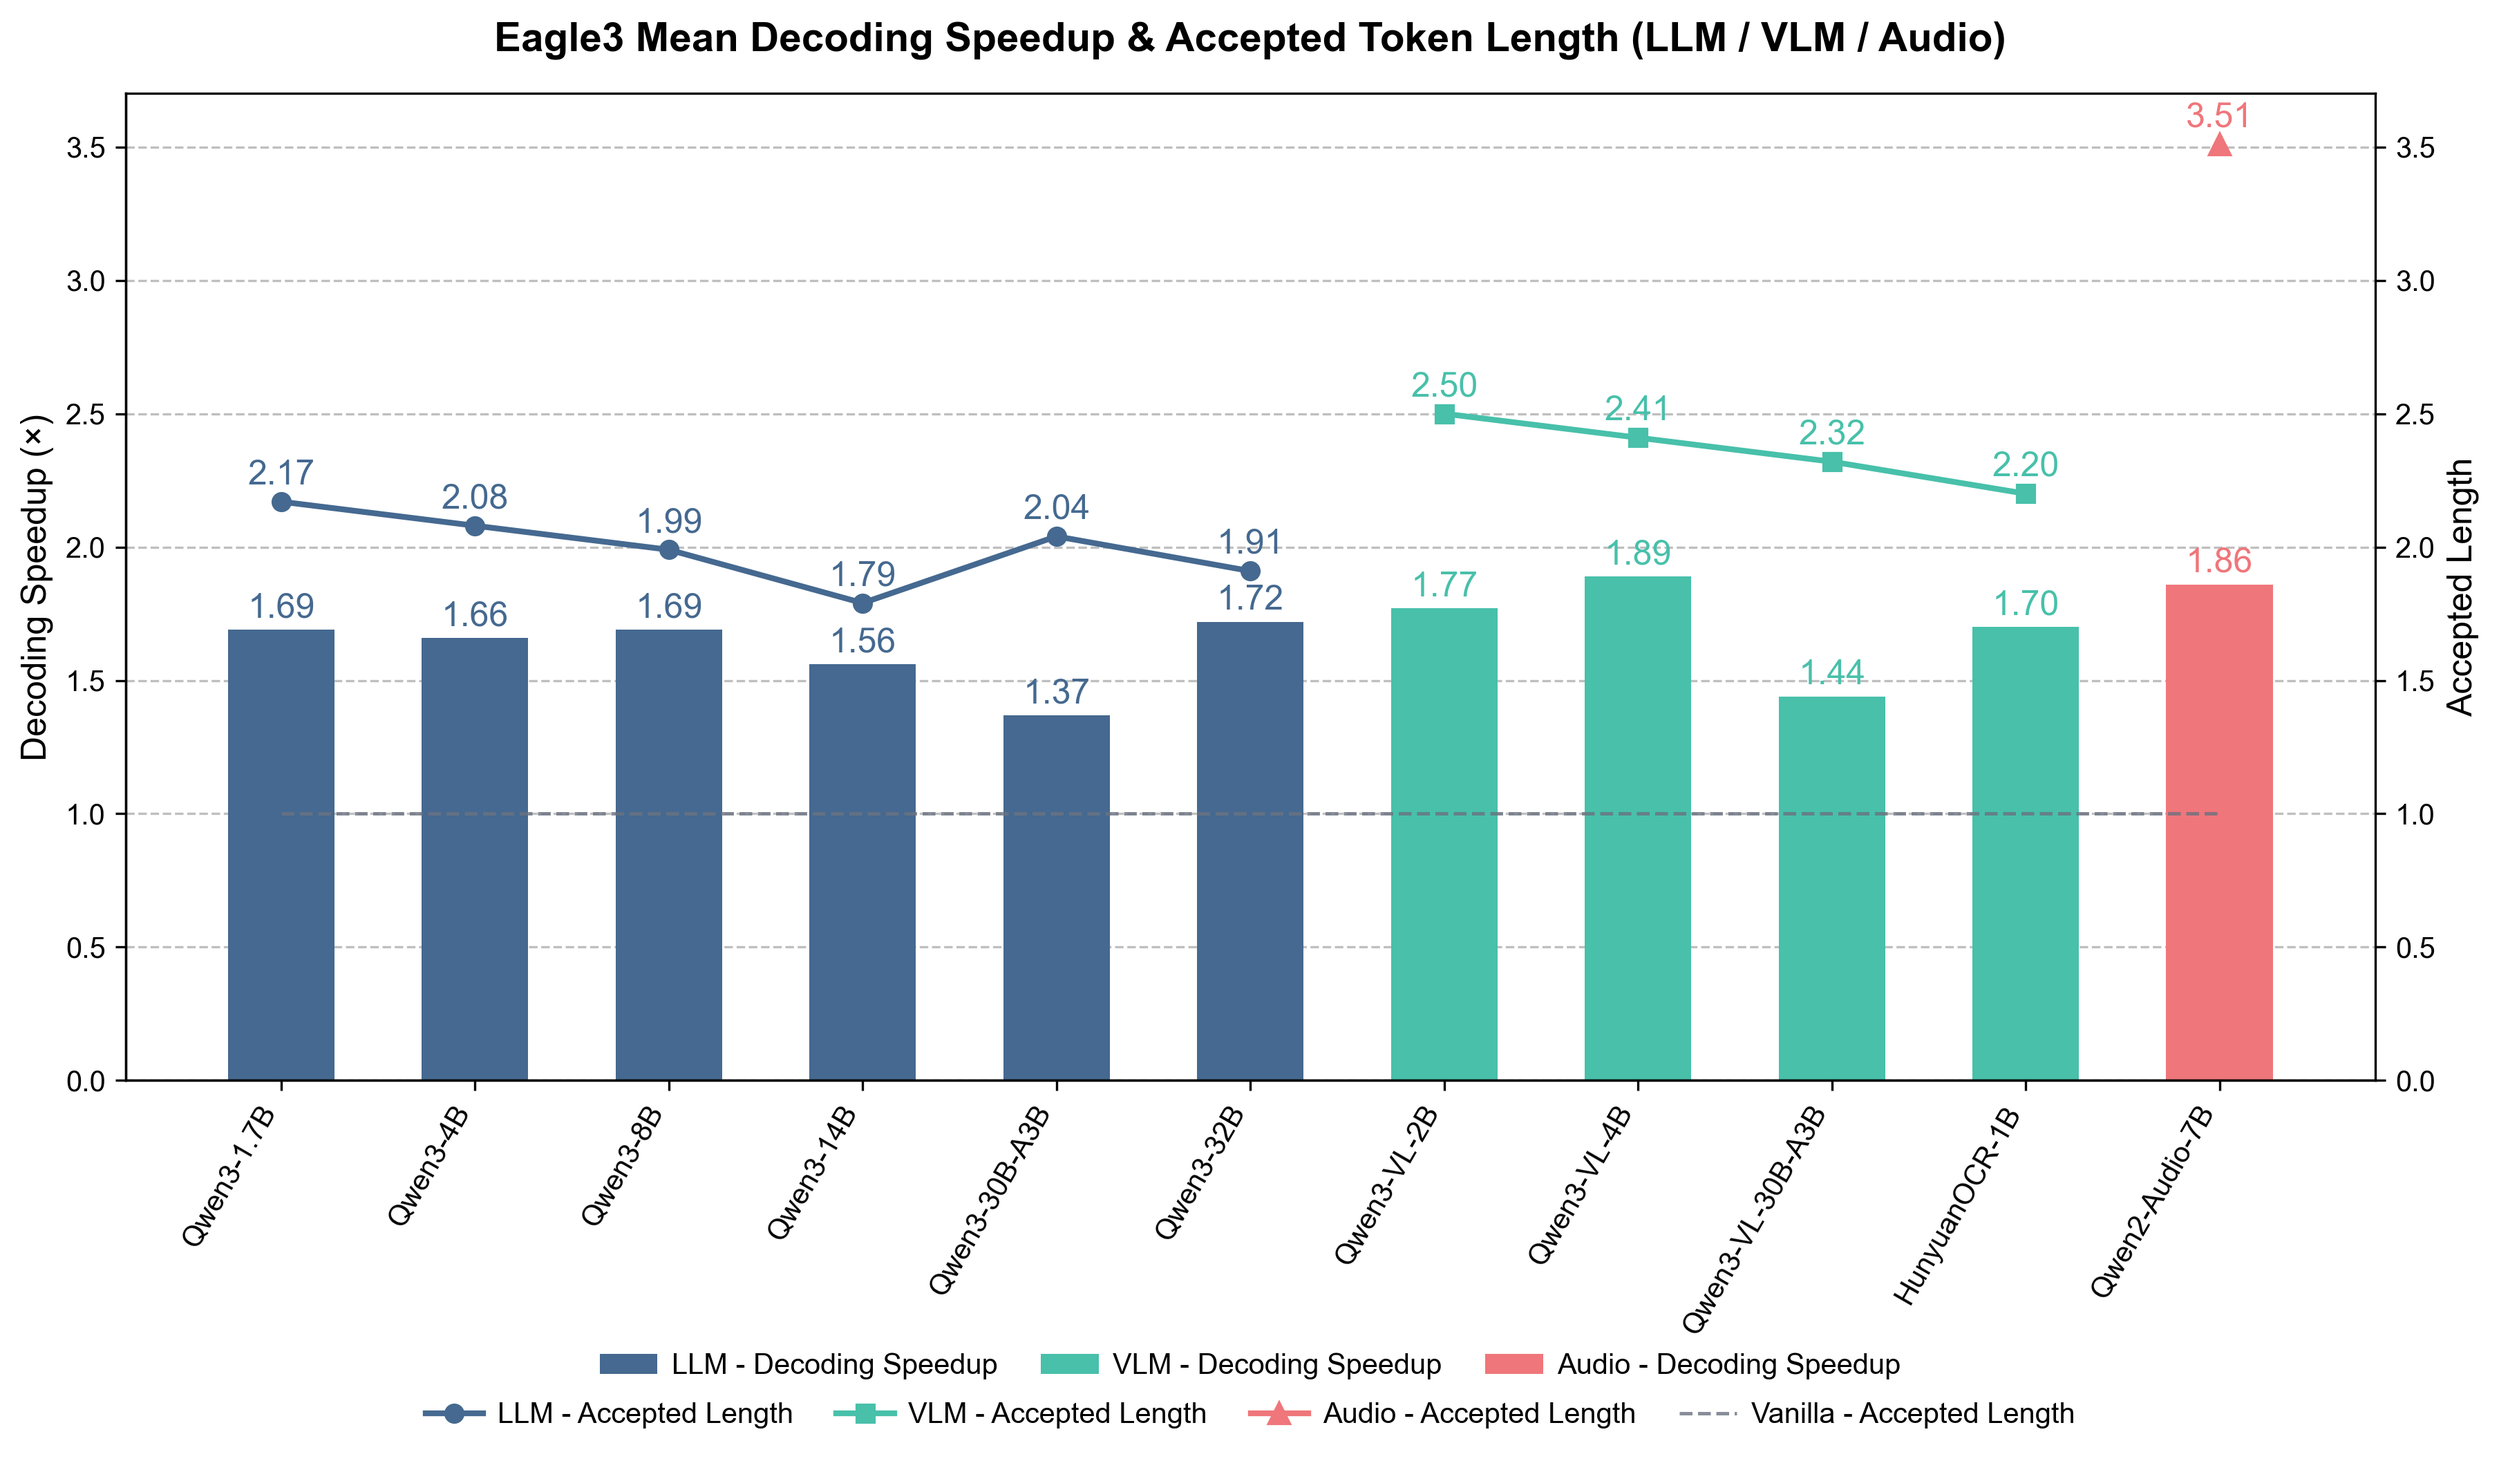
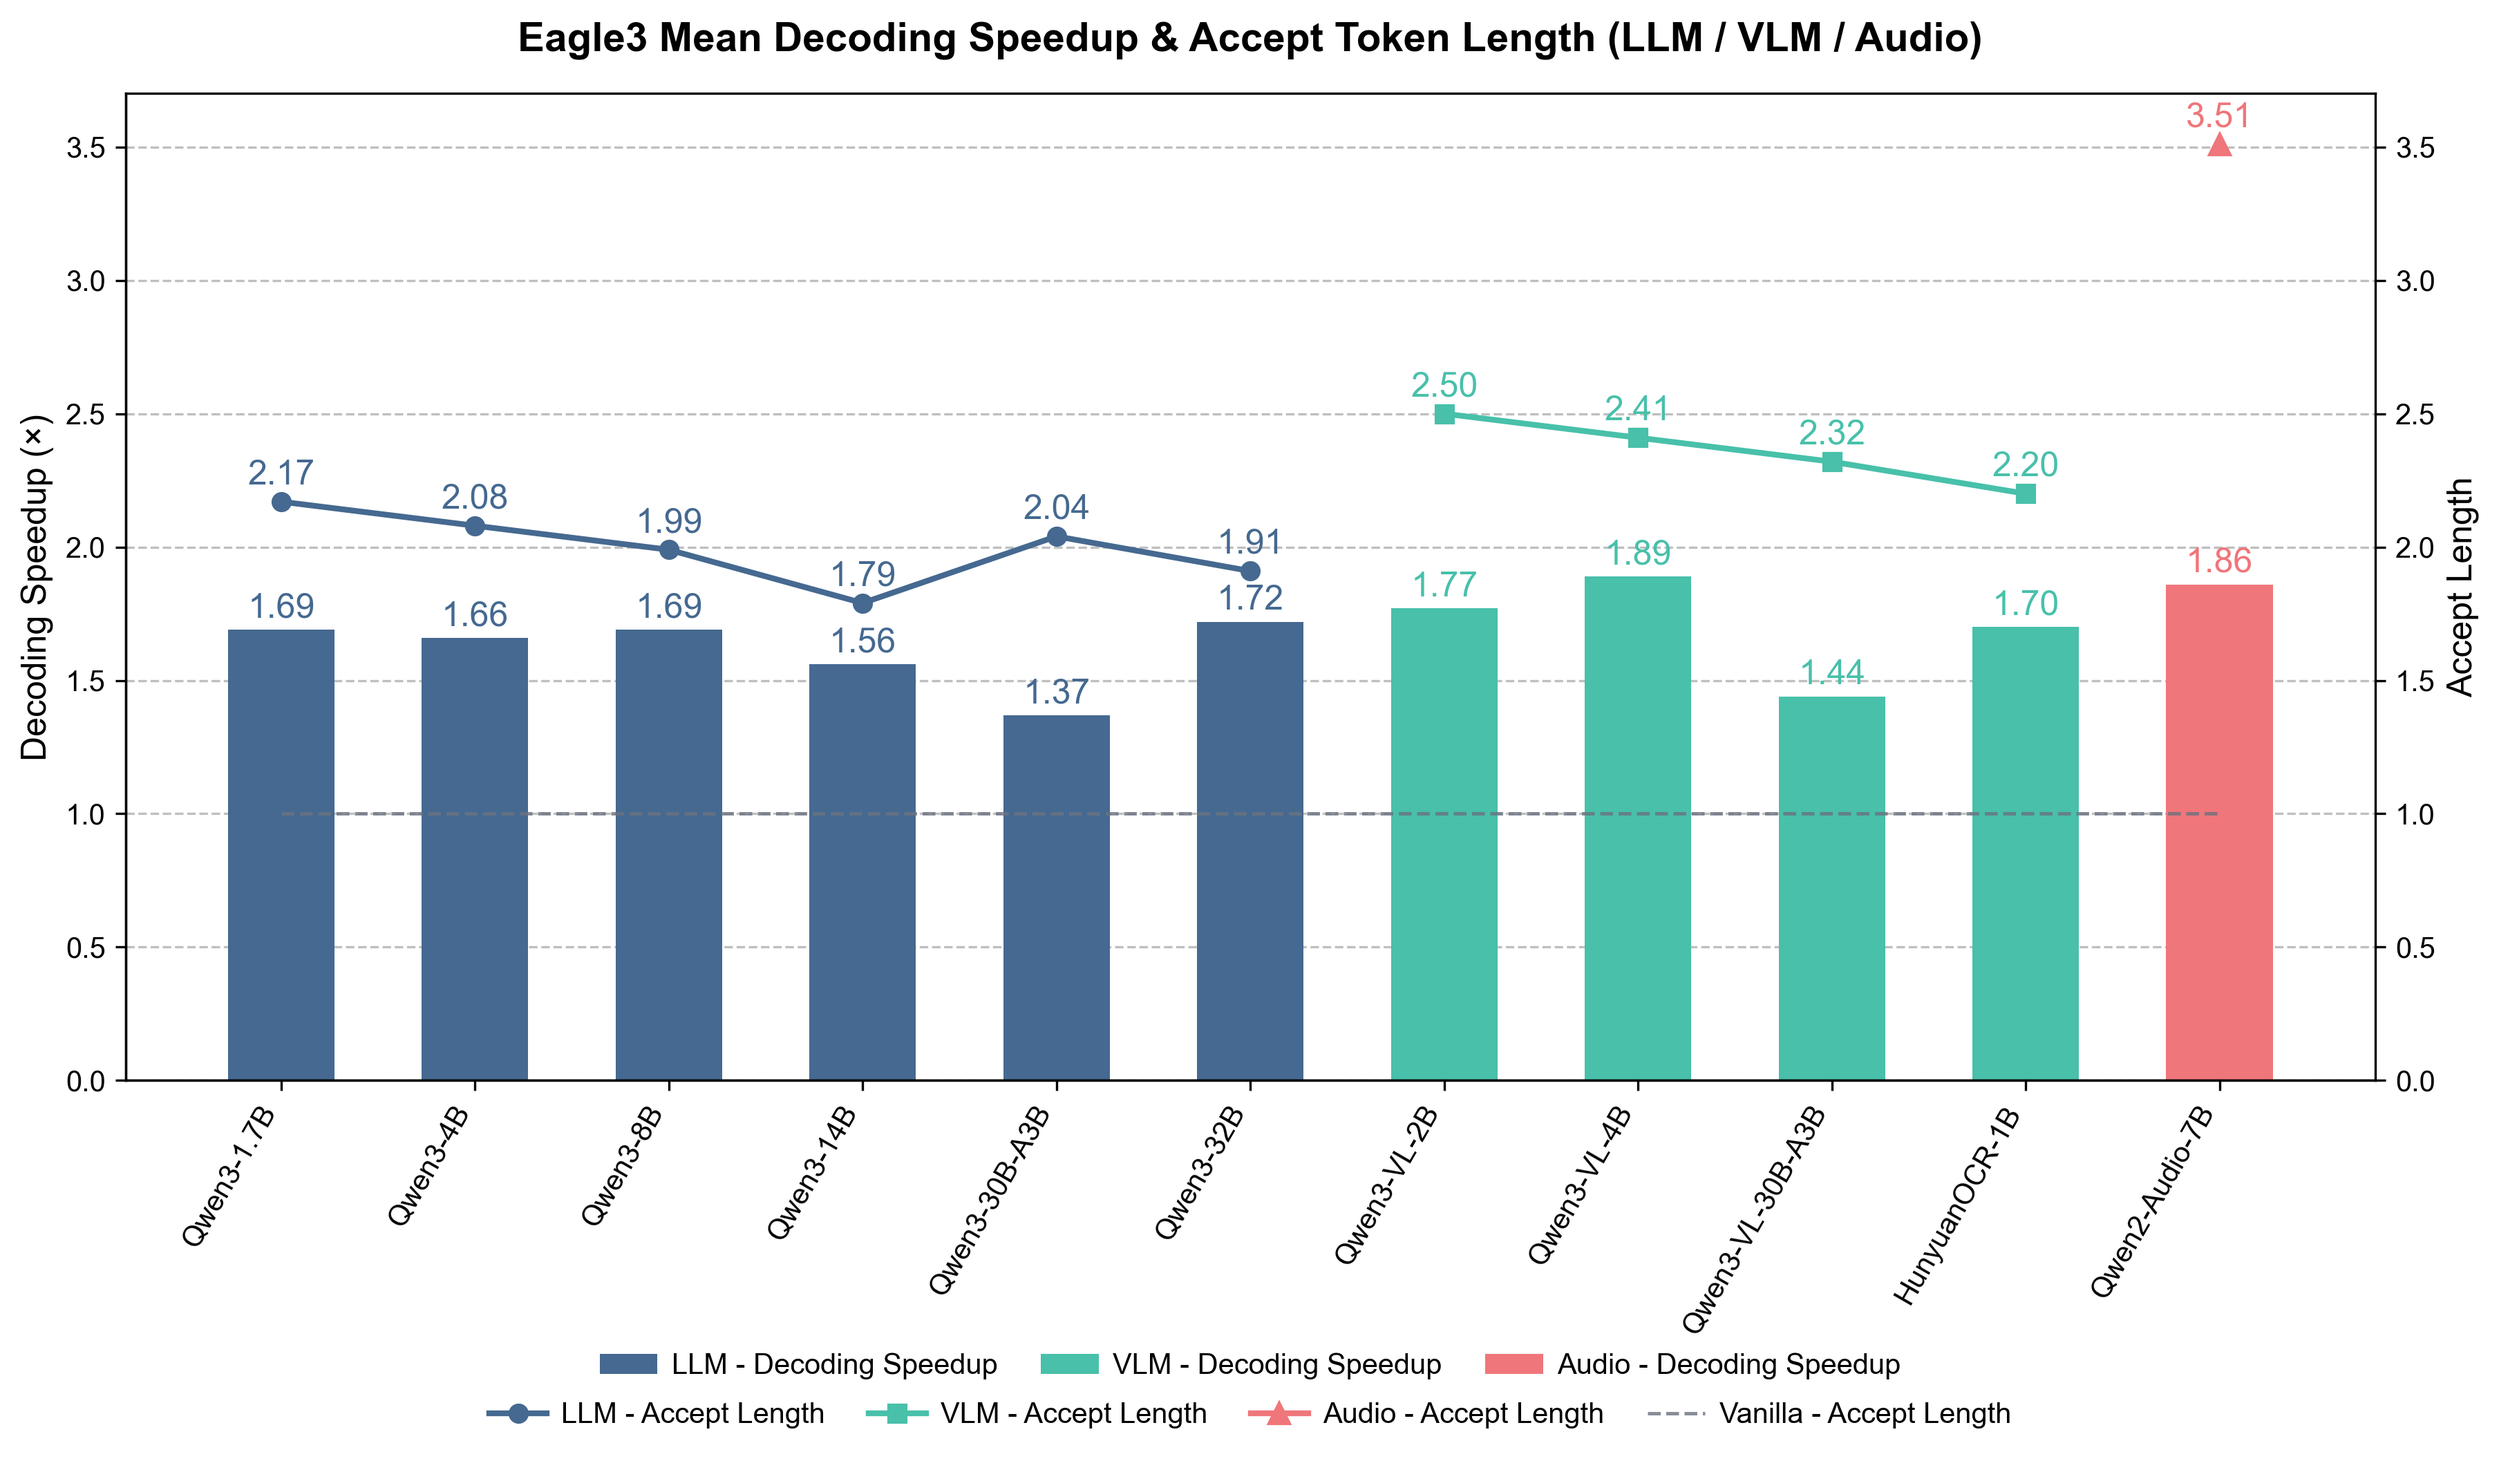
update README.md for speculative decoding

diff --git a/README.md b/README.md
@@ -353,11 +353,7 @@ We evaluated the Eagle3 model trained by AngelSlim on tasks including code gener
 
 #### 1.1 Qwen3 Series Models
 
-**vLLM v0.11.2 Benchmark Results**
-
-We report benchmark results of the Qwen3 series models using the Eagle3 speculative decoding algorithm across multiple evaluation suites, including **MT-bench**, **HumanEval**, **GSM8K**, and **Alpaca**.
-All experiments were conducted on a single NVIDIA H20 GPU with the configuration:
-**tp=1, ep=1, num_speculative_tokens=2, batch_size=1, output_len=1024**.
+Benchmark results for Qwen3 series models using Eagle3 speculative decoding on vLLM (v0.11.2) across **MT-bench**, **HumanEval**, **GSM8K** and **Alpaca**, using a single NVIDIA H20 GPU (**tp=1, ep=1, num_speculative_tokens=2, batch_size=1, output_len=1024**).
 
 <table>
   <thead>
@@ -493,15 +489,11 @@ All experiments were conducted on a single NVIDIA H20 GPU with the configuration
   </tbody>
 </table>
 
-#### 1.2 VLM & Audio Models
+#### 1.2 VLM Models
 
 ##### 1.2.1 Qwen3-VL Series Models
 
-vLLM v0.12.0 Benchmark Results
-
-We report benchmark results of the Qwen3-VL series models using the Eagle3 speculative decoding algorithm across multiple evaluation suites, including **MT-bench**, **HumanEval**, **GSM8K**, **Alpaca**, **MATH-500**, and multimodal understanding tasks, including **MMMU**, **MMStar**. All experiments were conducted on a single NVIDIA H20 GPU with the configuration:
-**tp=1, ep=1, num_speculative_tokens=4, batch_size=1, output_len=1024**.
-
+Benchmark results for Qwen3-VL series models using Eagle3 speculative decoding on vLLM (v0.12.0) across language and multimodal tasks, using a single NVIDIA H20 GPU (**tp=1, ep=1, num_speculative_tokens=4, batch_size=1, output_len=1024**).
 
 <table><thead>
   <tr>
@@ -643,11 +635,7 @@ We report benchmark results of the Qwen3-VL series models using the Eagle3 specu
 
 ##### 1.2.2 HunyuanOCR Model
 
-vLLM v0.13.0 Benchmark Results
-
-We report benchmark results of the HunyuanOCR using the Eagle3 speculative decoding algorithm across **OCR-Bench**. All experiments were conducted on a single NVIDIA H20 GPU with the configuration:
-**tp=1, ep=1, num_speculative_tokens=4, batch_size=1, output_len=1024**.
-
+Benchmark results for HunyuanOCR using Eagle3 speculative decoding on vLLM (v0.13.0) across OCR tasks, using a single NVIDIA H20 GPU (**tp=1, ep=1, num_speculative_tokens=4, batch_size=1, output_len=1024**).
 
 <table><thead>
   <tr>
@@ -678,18 +666,17 @@ We report benchmark results of the HunyuanOCR using the Eagle3 speculative decod
 </tbody>
 </table>
 
-##### 1.2.3 Qwen2-Audio Model
+#### 1.3 Audio Models
 
-vLLM v0.12.0 Benchmark Results
+##### 1.3.1 Qwen2-Audio Model
 
-We report benchmark results of the HunyuanOCR using the Eagle3 speculative decoding algorithm across **[librispeech_dev](https://www.openslr.org/12)** dataset. All experiments were conducted on a single NVIDIA H20 GPU with the configuration:
-**tp=1, ep=1, num_speculative_tokens=4, batch_size=1, output_len=1024**.
+Benchmark results for Qwen2-Audio using Eagle3 speculative decoding on vLLM (v0.12.0) across **[LibriSpeech](https://www.openslr.org/12)** dataset, using a single NVIDIA H20 GPU (**tp=1, ep=1, num_speculative_tokens=4, batch_size=1, output_len=1024**).
 
 <table><thead>
   <tr>
     <th>Model</th>
     <th>Method</th>
-    <th colspan="2">librispeech_dev</th>
+    <th colspan="2">LibriSpeech</th>
   </tr></thead>
 <tbody>
   <tr>
@@ -712,6 +699,40 @@ We report benchmark results of the HunyuanOCR using the Eagle3 speculative decod
   </tr>
 </tbody>
 </table>
+
+##### 1.3.2 Fun-CosyVoice3 Model
+
+Benchmark results for Fun-CosyVoice3 using Eagle3 speculative decoding across **[LibriTTS](https://www.openslr.org/60/)** dataset, using a single NVIDIA H20 GPU (**tp=1, ep=1, num_speculative_tokens=4, batch_size=1, output_len=1024**).
+
+<table><thead>
+  <tr>
+    <th>Model</th>
+    <th>Method</th>
+    <th colspan="2"><a href="https://www.openslr.org/60/">LibriTTS</a></th>
+  </tr></thead>
+<tbody>
+  <tr>
+    <td></td>
+    <td></td>
+    <td>throughput (tokens/s)</td>
+    <td>accept length</td>
+  </tr>
+  <tr>
+    <td>Fun-CosyVoice3</td>
+    <td>Vanilla</td>
+    <td>-</td>
+    <td>1</td>
+  </tr>
+  <tr>
+    <td></td>
+    <td>Eagle3</td>
+    <td>-</td>
+    <td>1.96</td>
+  </tr>
+</tbody>
+</table>
+
+> Adapted for Transformers backend inference, only displays accept length.
 
 ### 2. Quantization
 

diff --git a/README_cn.md b/README_cn.md
@@ -492,10 +492,11 @@ bash scripts/deploy/lm_eval.sh -d 0,1 -t 2 -g 0.8 -r $RESULT_PATH -b "auto" --ta
   </tbody>
 </table>
 
-#### 1.2 多模态理解 & 语音模型
+#### 1.2 多模态理解模型
 
 ##### 1.2.1 Qwen3-VL系列模型
-我们使用(v0.12.0)评测了Qwen3-VL系列Eagle3模型在语言理解任务: **MT-bench**、 **HumanEval**、 **GSM8K**、**Alpaca**、**MATH-500** 和多模态理解任务: **MMMU**、**MMStar** 等数据集上的接收长度和吞吐。全部结果都是在单张H20上用以下设置测得：**tp=1, ep=1, num_speculative_tokens=4, batch_size=1, output_len=1024**。
+
+我们使用(v0.12.0)评测了Qwen3-VL系列Eagle3模型在语言理解任务和多模态理解任务上的接收长度和吞吐。全部结果都是在单张H20上用以下设置测得：**tp=1, ep=1, num_speculative_tokens=4, batch_size=1, output_len=1024**。
 
 <table><thead>
   <tr>
@@ -636,6 +637,7 @@ bash scripts/deploy/lm_eval.sh -d 0,1 -t 2 -g 0.8 -r $RESULT_PATH -b "auto" --ta
 </tbody></table>
 
 ##### 1.2.2 HunyuanOCR模型
+
 我们使用(v0.13.0)评测了HunyuanOCR Eagle3模型在 **OCR-Bench** 上的接收长度和吞吐。结果是在单张H20上用以下设置测得：**tp=1, ep=1, num_speculative_tokens=4, batch_size=1, output_len=1024**。
 
 
@@ -668,15 +670,17 @@ bash scripts/deploy/lm_eval.sh -d 0,1 -t 2 -g 0.8 -r $RESULT_PATH -b "auto" --ta
 </tbody>
 </table>
 
-##### 1.2.3 Qwen2-Audio模型
+#### 1.3 语音模型
 
-我们使用(v0.12.0)评测了Qwen2-Audio Eagle3模型在[librispeech_dev](https://www.openslr.org/12)数据集上的接收长度和吞吐。结果是在单张H20上用以下设置测得：**tp=1, ep=1, num_speculative_tokens=4, batch_size=1, output_len=1024**。
+##### 1.3.1 Qwen2-Audio模型
+
+我们使用(v0.12.0)评测了Qwen2-Audio Eagle3模型在[LibriSpeech](https://www.openslr.org/12)数据集上的接收长度和吞吐。结果是在单张H20上用以下设置测得：**tp=1, ep=1, num_speculative_tokens=4, batch_size=1, output_len=1024**。
 
 <table><thead>
   <tr>
     <th>Model</th>
     <th>Method</th>
-    <th colspan="2">librispeech_dev</th>
+    <th colspan="2">LibriSpeech</th>
   </tr></thead>
 <tbody>
   <tr>
@@ -699,6 +703,39 @@ bash scripts/deploy/lm_eval.sh -d 0,1 -t 2 -g 0.8 -r $RESULT_PATH -b "auto" --ta
   </tr>
 </tbody>
 </table>
+
+##### 1.3.2 Fun-CosyVoice3模型
+我们评测了Fun-CosyVoice3 Eagle3模型在[LibriTTS](https://www.openslr.org/60/)数据集上的接收长度。结果是在单张H20上用以下设置测得：**tp=1, ep=1, num_speculative_tokens=4, batch_size=1, output_len=1024**。
+
+<table><thead>
+  <tr>
+    <th>Model</th>
+    <th>Method</th>
+    <th colspan="2"><a href="https://www.openslr.org/60/">LibriTTS</a></th>
+  </tr></thead>
+<tbody>
+  <tr>
+    <td></td>
+    <td></td>
+    <td>throughput (tokens/s)</td>
+    <td>accept length</td>
+  </tr>
+  <tr>
+    <td>Fun-CosyVoice3</td>
+    <td>Vanilla</td>
+    <td>-</td>
+    <td>1</td>
+  </tr>
+  <tr>
+    <td></td>
+    <td>Eagle3</td>
+    <td>-</td>
+    <td>1.96</td>
+  </tr>
+</tbody>
+</table>
+
+> Adapted for Transformers backend inference, only displays accept length.
 
 ### 2、量化
 
